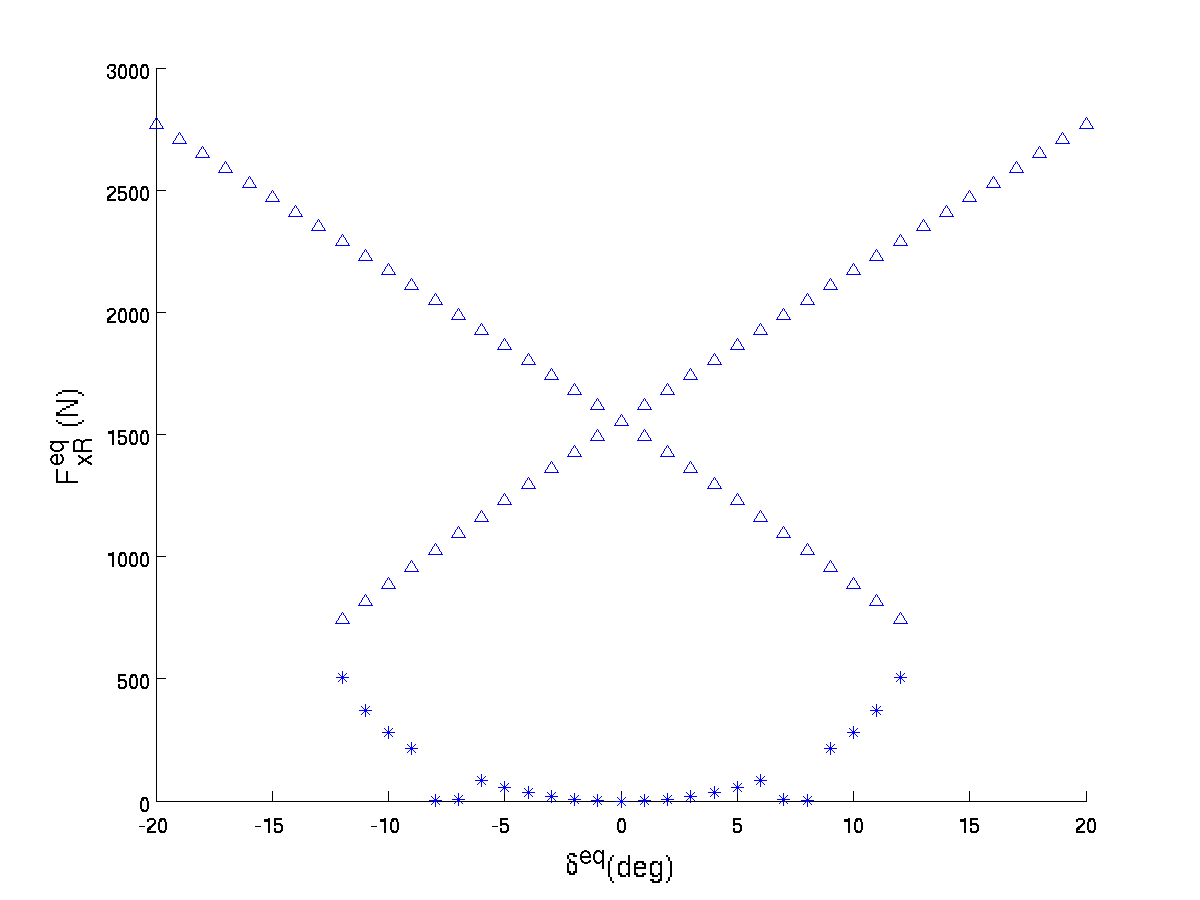
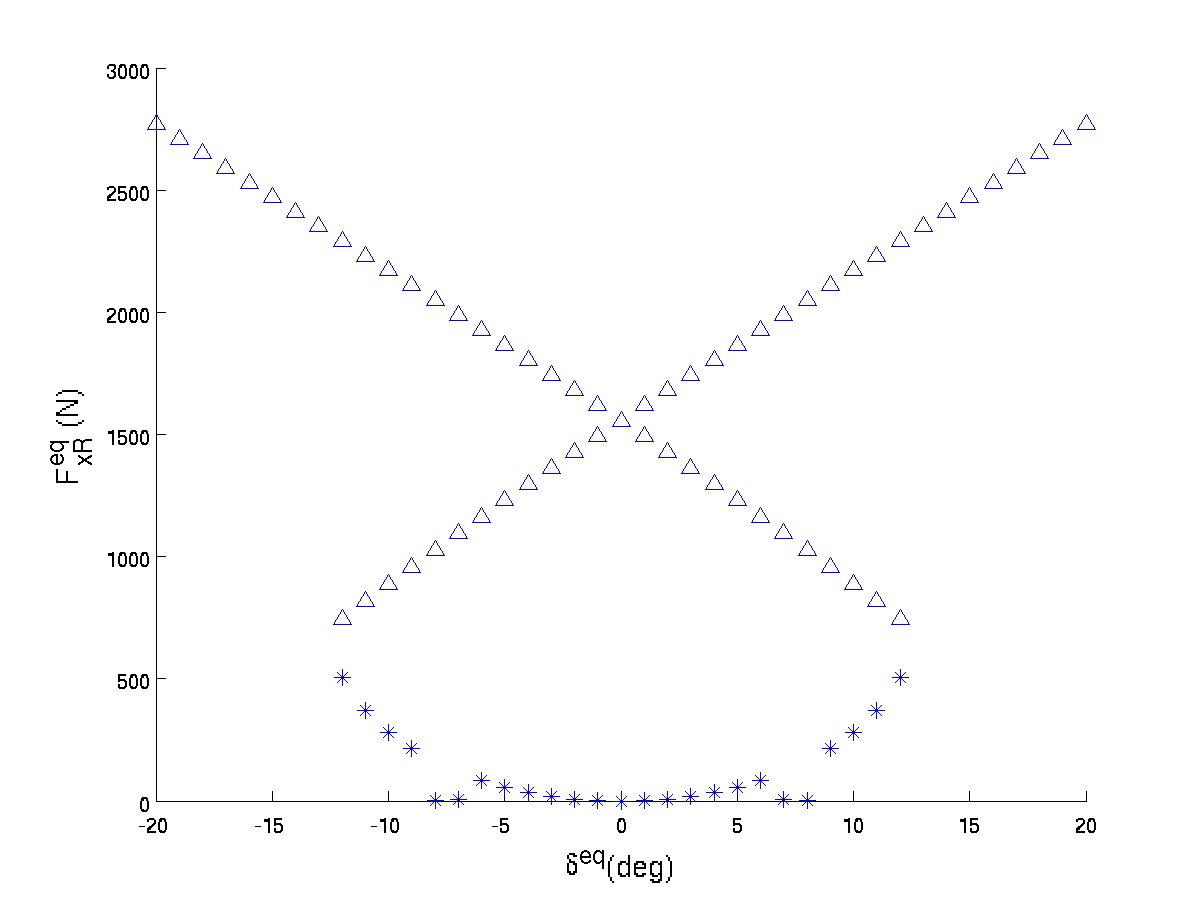
Updated equilibrium and added directories for simulation and visualization

diff --git a/equilibrium/equilibria.m b/equilibrium/equilibria.m
@@ -2,6 +2,7 @@
 
 %% Setup
 close all; clear; clc;
+addpath('../dynamics');
 
 %% Solve for equilibrium points
 
@@ -82,9 +83,9 @@ h1 = figure; hold on;
 % set(h1, 'defaulttextinterpreter','latex');
 % plot(delta_deg1, x0_1(1,:), 'r^', delta_deg2, x0_2(1,:), 'r^');
 % plot(delta_deg3, x0_3(1,:), 'r*');
-plot(delta_deg1, eq_points1(1,:), 'b^');
-plot(delta_deg2, eq_points2(1,:), 'b^');
-plot(delta_deg3, eq_points3(1,:), 'b*');
+plot(delta_deg1, eq_points1(1,:), 'b^', 'MarkerSize', 8);
+plot(delta_deg2, eq_points2(1,:), 'b^', 'MarkerSize', 8);
+plot(delta_deg3, eq_points3(1,:), 'b*', 'MarkerSize', 8);
 xlabel('\delta^{eq}(deg)','FontSize', FS);
 ylabel('r^{eq} (rad/s)','FontSize', FS);
 
@@ -92,9 +93,9 @@ h2 = figure; hold on;
 % set(h2, 'defaulttextinterpreter','latex');
 % plot(delta_deg1, x0_1(2,:), 'r^', delta_deg2, x0_2(2,:), 'r^');
 % plot(delta_deg3, x0_3(2,:), 'r*');
-plot(delta_deg1, eq_points1(2,:), 'b^');
-plot(delta_deg2, eq_points2(2,:), 'b^');
-plot(delta_deg3, eq_points3(2,:), 'b*');
+plot(delta_deg1, eq_points1(2,:), 'b^', 'MarkerSize', 8);
+plot(delta_deg2, eq_points2(2,:), 'b^', 'MarkerSize', 8);
+plot(delta_deg3, eq_points3(2,:), 'b*', 'MarkerSize', 8);
 xlabel('\delta^{eq}(deg)','FontSize', FS);
 ylabel('F_{xR}^{eq} (N)','FontSize', FS);
 
@@ -102,35 +103,12 @@ h3 = figure; hold on;
 % set(h3, 'defaulttextinterpreter','latex');
 % plot(delta_deg1, x0_1(3,:)*180/pi, 'r^', delta_deg2, x0_2(3,:)*180/pi, 'r^');
 % plot(delta_deg3, x0_3(3,:)*180/pi, 'r*');
-plot(delta_deg1, eq_points1(3,:)*180/pi, 'b^');
-plot(delta_deg2, eq_points2(3,:)*180/pi, 'b^');
-plot(delta_deg3, eq_points3(3,:)*180/pi, 'b*');
+plot(delta_deg1, eq_points1(3,:)*180/pi, 'b^', 'MarkerSize', 8);
+plot(delta_deg2, eq_points2(3,:)*180/pi, 'b^', 'MarkerSize', 8);
+plot(delta_deg3, eq_points3(3,:)*180/pi, 'b*', 'MarkerSize', 8);
 xlabel('\delta^{eq}(deg)','FontSize', FS);
 ylabel('\beta^{eq} (deg)','FontSize', FS);
 
 saveas(h1, 'r', 'png');
 saveas(h2, 'FxR', 'png');
 saveas(h3, 'beta', 'png');
-
-
-
-
-
-
-
-
-
-
-
-
-
-
-
-
-
-
-
-
-
-
-
